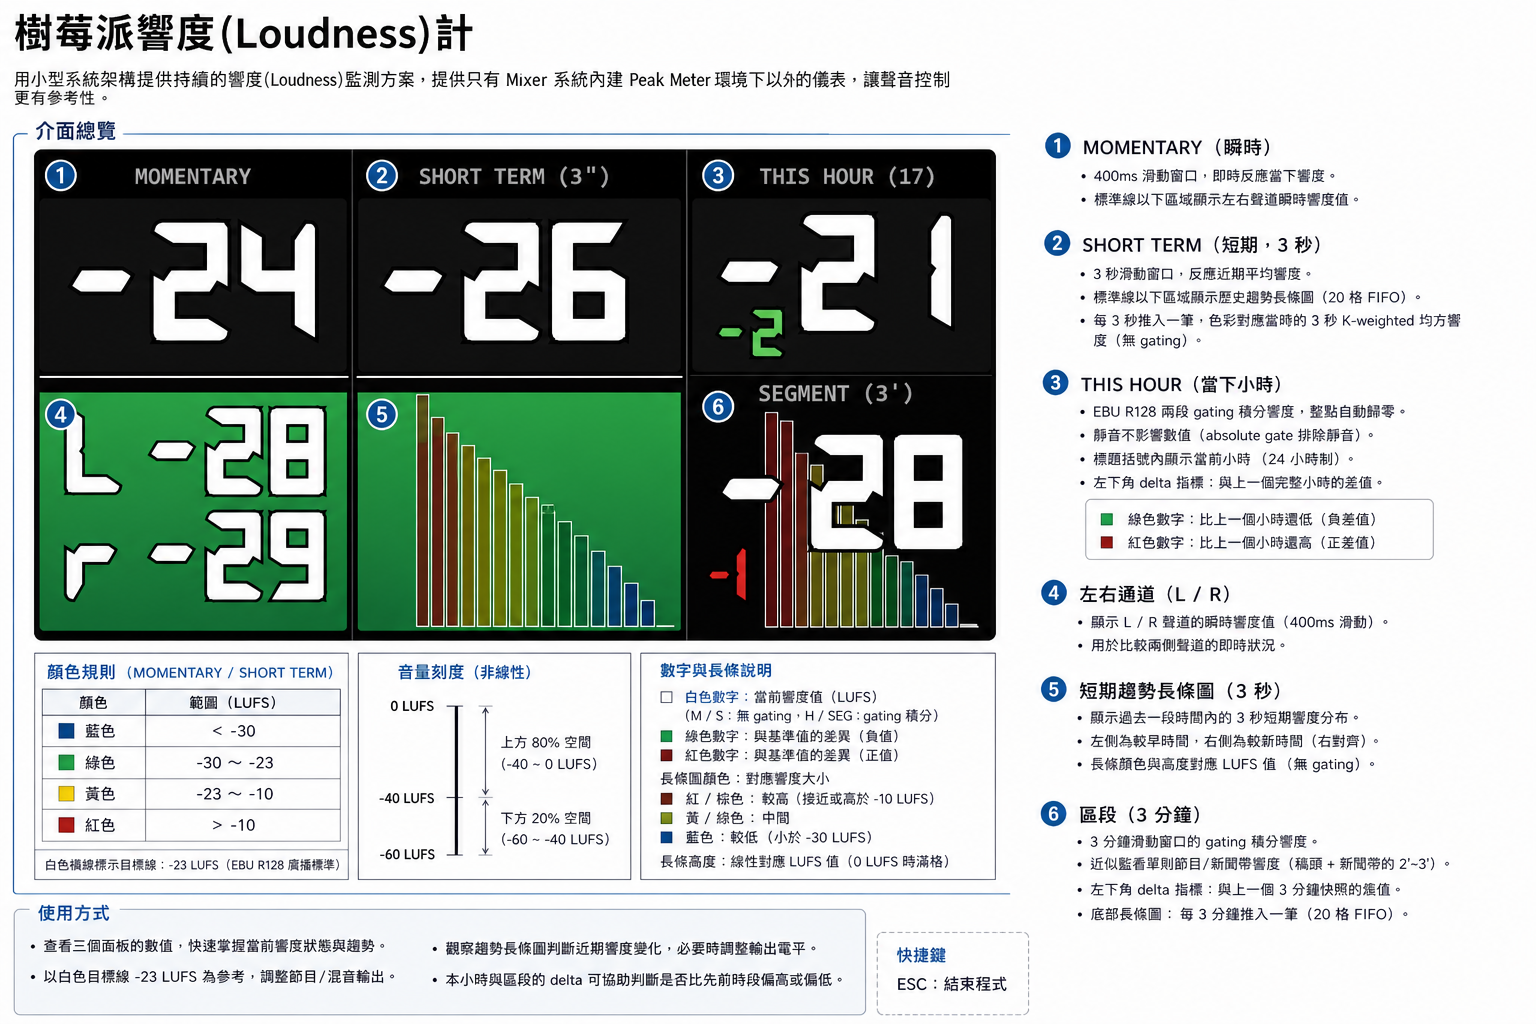
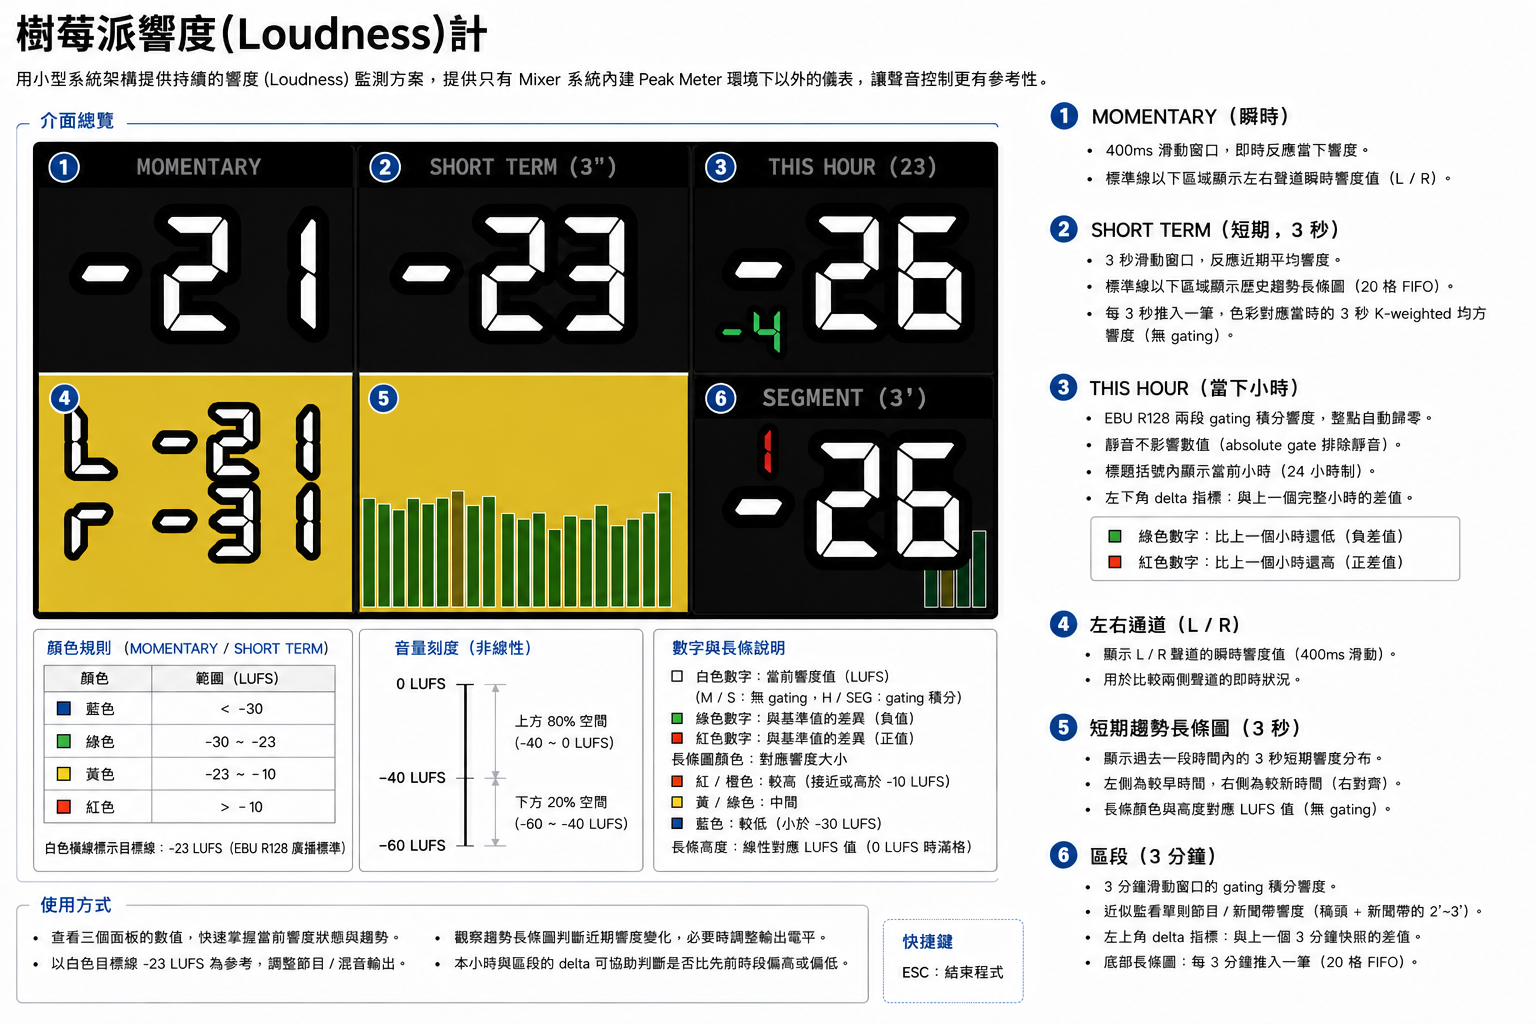
feat: outline 渲染簡化、outline 加粗、SEGMENT delta 側置對齊
- render_outlined 由 3 層改為 2 層（移除同色內圈），模擬 Photoshop 外部筆畫效果
- 主數值 offset 20→34、L/R offset 10→17，視覺描邊更明顯
- 新增獨立 delta 字型（_fs_delta），大小介於 value 與 lr 之間
- SEGMENT 面板 delta 改為 side 對齊（左側面板頂端 32% 處）
- 更新 UI 截圖與 preview GIF

diff --git a/loudness_meter.py b/loudness_meter.py
@@ -217,13 +217,10 @@ def _log_hour(dt, lufs_val):
 
 # ─── GUI ──────────────────────────────────────────────────────────────────────
 def render_outlined(font, text, color, outline_color=(0, 0, 0), offset=2):
-    """3 層渲染：黑色外框（16 方向 × 雙半徑）→ 同色描邊 → 填充。"""
+    """2 層渲染：黑色外框（16 方向均勻擴展）→ 主色填充。
+    模擬 Photoshop 筆畫「外部」效果：白色主體大小不變，黑框只往外延伸。"""
     import math
-    inner = max(1, offset // 2)
-    # 16 方向單位向量
     dirs16 = [(math.cos(i * math.pi / 8), math.sin(i * math.pi / 8)) for i in range(16)]
-    # 雙半徑：offset 與 offset×0.6（填補方向間的缺口）
-    radii  = [offset, max(1, round(offset * 0.6))]
 
     shadow_surf = font.render(text, True, outline_color)
     color_surf  = font.render(text, True, color)
@@ -232,16 +229,12 @@ def render_outlined(font, text, color, outline_color=(0, 0, 0), offset=2):
     h = color_surf.get_height() + offset * 2
     surf = pygame.Surface((w, h), pygame.SRCALPHA)
 
-    # 黑色外框（16 方向 × 雙半徑）
-    for r in radii:
+    # 第一層：黑色外框，16 方向往外擴展（雙半徑填補缺口）
+    for r in [offset, max(1, round(offset * 0.6))]:
         for dx, dy in dirs16:
             surf.blit(shadow_surf, (round(dx * r) + offset, round(dy * r) + offset))
 
-    # 同色內圈（8 方向，加粗筆畫感）
-    dirs8 = dirs16[::2]
-    for dx, dy in dirs8:
-        surf.blit(color_surf, (round(dx * inner) + offset, round(dy * inner) + offset))
-
+    # 第二層：白色主體，正中心疊上，大小不變
     surf.blit(color_surf, (offset, offset))
     return surf
 
@@ -335,7 +328,7 @@ def draw_panel(surface, fonts, surf_cache, title, val, px, pw, ph, lr_vals=None,
     val_str    = _fmt_lufs(val)
     num_key    = ('num_bar', val_str, pw, num_zone_h)
     if num_key not in surf_cache:
-        vs_raw = render_outlined(font_value, val_str, (255, 255, 255), offset=20)
+        vs_raw = render_outlined(font_value, val_str, (255, 255, 255), offset=34)
         sc     = min((pw - MARGIN * 2) / vs_raw.get_width(),
                      (num_zone_h - MARGIN * 2) / vs_raw.get_height())
         surf_cache[num_key] = pygame.transform.smoothscale(
@@ -363,7 +356,7 @@ def draw_panel(surface, fonts, surf_cache, title, val, px, pw, ph, lr_vals=None,
         for lr_str in (l_str, r_str):
             lr_key = ('lr', lr_str)
             if lr_key not in surf_cache:
-                surf_cache[lr_key] = render_outlined(font_lr, lr_str, (255, 255, 255), offset=10)
+                surf_cache[lr_key] = render_outlined(font_lr, lr_str, (255, 255, 255), offset=17)
         l_surf    = surf_cache[('lr', l_str)]
         r_surf    = surf_cache[('lr', r_str)]
         lr_zone_y = ty
@@ -377,12 +370,12 @@ def draw_panel(surface, fonts, surf_cache, title, val, px, pw, ph, lr_vals=None,
         surface.set_clip(None)
 
 
-def draw_number_only_panel(surface, fonts, surf_cache, title, val, px, pw, py, ph, delta=None, history=None):
-    font_title, _, font_value, font_lr = fonts
+def draw_number_only_panel(surface, fonts, surf_cache, title, val, px, pw, py, ph, delta=None, history=None, delta_align='below'):
+    font_title, _, font_value, font_lr, font_delta = fonts
 
     TITLE_H        = 70
     _pscale        = pw / 640           # 640 = 1920//3，以此推算解析度比例
-    OUTLINE_OFFSET = max(4, round(20 * _pscale))
+    OUTLINE_OFFSET = max(4, round(34 * _pscale))
     MARGIN         = 10
 
     if history is not None and len(history) > 0:
@@ -428,16 +421,23 @@ def draw_number_only_panel(surface, fonts, surf_cache, title, val, px, pw, py, p
         d_color = (220, 50, 50) if delta > 0 else ((110, 200, 110) if delta < 0 else (140, 140, 140))
         d_key   = ('delta', d_str, d_color)
         if d_key not in surf_cache:
-            surf_cache[d_key] = render_outlined(font_lr, d_str, d_color, offset=10)
+            surf_cache[d_key] = render_outlined(font_delta, d_str, d_color, offset=17)
         ds = surf_cache[d_key]
 
-        content_left   = vx + int(OUTLINE_OFFSET * sc)
-        minus_w_sc     = int(font_value.size('-')[0] * sc)
-        delta_x        = content_left + minus_w_sc // 2
-        num_bottom     = vy + new_h
-        delta_half_h   = ds.get_height() // 2
-        delta_center_y = min(py + ph - delta_half_h - 6,
-                             num_bottom + delta_half_h + 4)
+        delta_half_h = ds.get_height() // 2
+
+        if delta_align == 'side':
+            # 左側、面板頂端往下 32%（落在標題與大數字之間偏下）
+            delta_x        = px + MARGIN + ds.get_width() // 2
+            delta_center_y = py + round(ph * 0.32)
+        else:
+            # 大數字正下方（預設）
+            content_left   = vx + int(OUTLINE_OFFSET * sc)
+            minus_w_sc     = int(font_value.size('-')[0] * sc)
+            delta_x        = content_left + minus_w_sc // 2
+            num_bottom     = vy + new_h
+            delta_center_y = min(py + ph - delta_half_h - 6,
+                                 num_bottom + delta_half_h + 4)
 
         surface.blit(ds, (delta_x - ds.get_width() // 2, delta_center_y - delta_half_h))
 
@@ -463,6 +463,7 @@ def main():
     _scale = W / 1920
     _fs_value  = max(80,  round(250 * _scale))
     _fs_lr     = max(50,  round(140 * _scale))
+    _fs_delta  = max(32,  round(100 * _scale))   # delta 獨立字型，比 L/R 略小
     _fs_title  = max(24,  round(70  * _scale))
     _fs_scale  = max(16,  round(32  * _scale))
 
@@ -473,13 +474,15 @@ def main():
     try:
         font_value = pygame.font.Font(dseg_path, _fs_value)
         font_lr    = pygame.font.Font(dseg_path, _fs_lr)
+        font_delta = pygame.font.Font(dseg_path, _fs_delta)
         print(f"DSEG7Modern loaded: {dseg_path}")
     except (FileNotFoundError, pygame.error) as e:
         print(f"DSEG7Modern not found ({e}), fallback to monospace")
         font_value = pygame.font.SysFont("monospace", _fs_value, bold=True)
         font_lr    = pygame.font.SysFont("monospace", _fs_lr, bold=True)
+        font_delta = pygame.font.SysFont("monospace", _fs_delta, bold=True)
 
-    fonts = (font_title, font_scale, font_value, font_lr)
+    fonts = (font_title, font_scale, font_value, font_lr, font_delta)
 
     surf_cache = {}   # surface cache: keyed by (type, content, ...) — rebuilt only on change
 
@@ -549,7 +552,7 @@ def main():
             seg_delta = round(vals["SEG"]) - round(seg_history[-1]) if seg_history and vals["SEG"] > -70 else None
             draw_number_only_panel(screen, fonts, surf_cache, f"THIS HOUR ({current_hour})", vals["H"],   2 * pw, pw, 0,      half_h,       delta=h_delta)
             pygame.draw.line(screen, (55, 55, 55), (2 * pw, half_h), (2 * pw + pw, half_h), 1)
-            draw_number_only_panel(screen, fonts, surf_cache, "SEGMENT (3')",                vals["SEG"], 2 * pw, pw, half_h, H - half_h,   delta=seg_delta, history=seg_history)
+            draw_number_only_panel(screen, fonts, surf_cache, "SEGMENT (3')",                vals["SEG"], 2 * pw, pw, half_h, H - half_h,   delta=seg_delta, history=seg_history, delta_align='side')
 
             for i in (1, 2):
                 pygame.draw.line(screen, (55, 55, 55), (i * pw, 0), (i * pw, H), 1)
